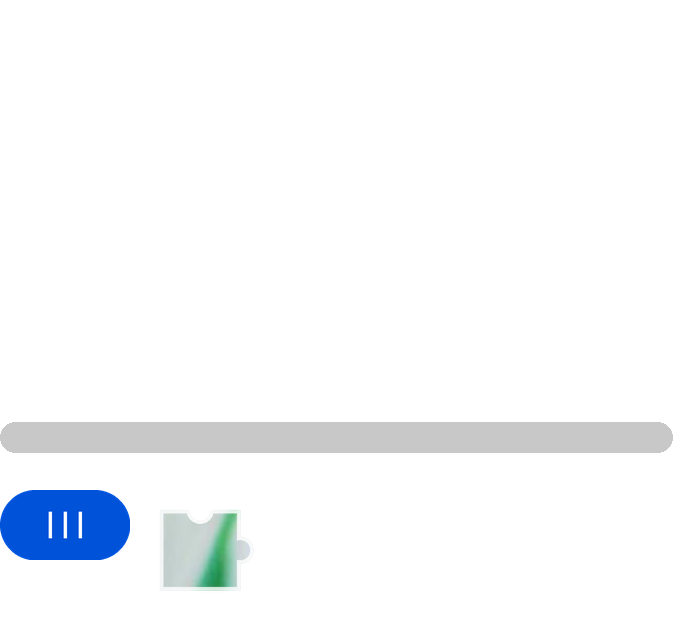
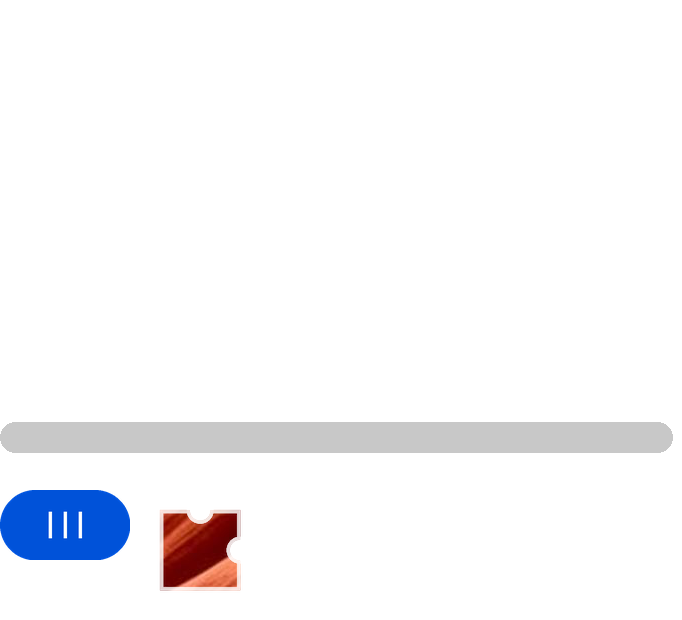
爬虫案例更新

Changed region(s): [[0.2155, 0.7968, 0.3695, 0.95]]

diff --git a/爬虫/案例/寿光相亲网/memberlist.py b/爬虫/案例/寿光相亲网/memberlist.py
@@ -30,6 +30,10 @@ headers = {
 
 
 def get_member_list(page):
+    """
+    获取某一页的会员列表
+
+    """
     params = {
         'actiontype': 'member',
         'page': page,
@@ -38,7 +42,6 @@ def get_member_list(page):
     member_list_url = 'https://www.sgjhw.com/pc/love/listrecommend'
     response = requests.get(member_list_url, params=params, headers=headers)
 
-    # print(response.json())
     return response
 
 
@@ -47,8 +50,6 @@ if __name__ == '__main__':
     for page in range(1, 213):
         print(page)
         resp = get_member_list(page)
-        # resp.encoding = 'utf-8'
-        # print(json.dumps(resp.json()))
 
         resp_json = resp.json().get('data').get('list')
         member_list.extend(resp_json)
@@ -56,12 +57,14 @@ if __name__ == '__main__':
         # 加上参数ensure_ascii 避免中文显示为ascii
         json_str = json.dumps(resp_json, ensure_ascii=False)
 
-        with open(f"./json/{page}.json", mode='w', encoding='utf-8') as fp:
-            # fp.write(resp.content.decode("unicode-escape"))
-            # json.dump(obj=resp.json(), fp=fp)
-            fp.write(json_str)
+        # 单独保存一页的数据
+        # with open(f"./json/{page}.json", mode='w', encoding='utf-8') as fp:
+        #     # fp.write(resp.content.decode("unicode-escape"))
+        #     # json.dump(obj=resp.json(), fp=fp)
+        #     fp.write(json_str)
 
-    with open(f'member_list.csv', 'w', newline='', encoding='utf-8') as f2:
+    #  写入csv
+    with open(r'd:\member_list.csv', 'w', newline='', encoding='utf-8') as f2:
         csv_writer = csv.DictWriter(f2, fieldnames=resp_json[0].keys())
         csv_writer.writeheader()
         for item in member_list:
